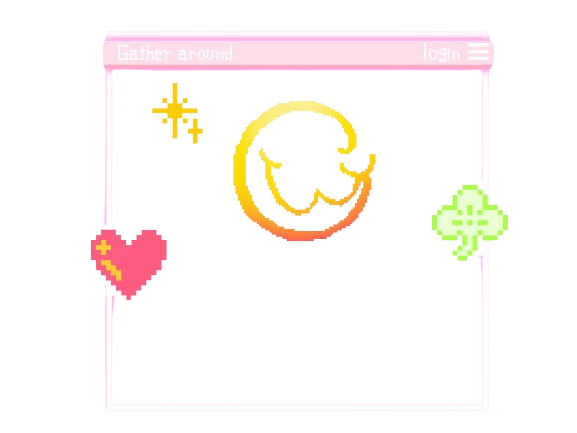
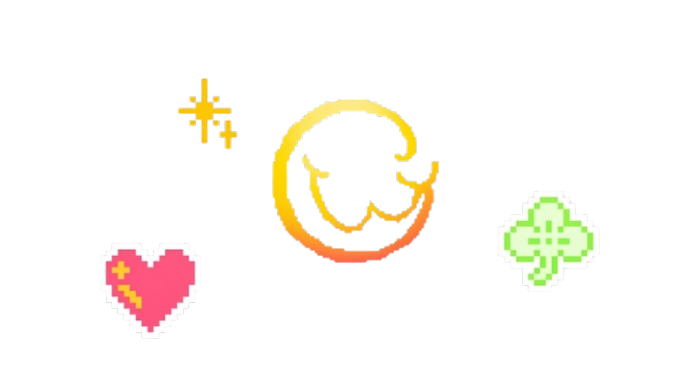
최종수정완료

diff --git a/css.css b/css.css
@@ -1,6 +1,5 @@
-/* ==========================================================================
-   0. 갈무리 웹폰트 패키지 가져오기 & 전역 픽셀 렌더링 설정
-   ========================================================================== */
+/*0. 갈무리 웹폰트 패키지 가져오기 & 전역 픽셀 렌더링 설정
+========================================================================== */
 @import url("https://cdn.jsdelivr.net/npm/galmuri@latest/dist/galmuri.css");
 
 * {
@@ -25,8 +24,8 @@ textarea {
 }
 
 /* ==========================================================================
-   1. 공통 기본 스타일 & 배경 고정 + 스크롤바 숨기기
-   ========================================================================== */
+   1. 공통 기본 스타일 & 배경 고정 + 스크롤바 숨기기
+   ========================================================================== */
 body {
   margin: 0;
   padding: 0;
@@ -60,8 +59,8 @@ body::before {
 }
 
 /* ==========================================================================
-   2. 상단 메뉴바 (GW.html과 서브페이지 유연한 동시 대응 정렬)
-   ========================================================================== */
+   2. 상단 메뉴바 (GW.html과 서브페이지 유연한 동시 대응 정렬)
+   ========================================================================== */
 .navbar {
   width: 100%;
   background: linear-gradient(90deg, #ffe5ec 0%, #ffc2d1 100%);
@@ -145,12 +144,12 @@ body::before {
 }
 
 /* ==========================================================================
-   3. 메인 콘텐츠 및 서브페이지 레이아웃 (가려짐 현상 수정)
-   ========================================================================== */
+   3. 메인 콘텐츠 및 서브페이지 레이아웃 (가려짐 현상 수정)
+   ========================================================================== */
 .main-content {
   flex: 1;
   margin-top: 110px; /* 🚀 헤더(85px) 하단 여백을 주어 타이틀 가려짐 문제 영구 해결 */
-  margin-bottom: 120px;
+  margin-bottom: 85px;
   display: flex;
   flex-direction: column;
   align-items: center;
@@ -241,13 +240,15 @@ body::before {
 
 .footer {
   width: 100%;
-  height: 120px;
+  height: 85px; /* 헤더와 동일 */
   background: linear-gradient(135deg, #fff0f3 0%, #ffccd5 100%);
   box-shadow: 0 -5px 0px rgba(255, 182, 193, 0.4);
+
   padding: 0 30px;
   display: flex;
   align-items: center;
   justify-content: flex-start;
+
   box-sizing: border-box;
   position: fixed;
   bottom: 0;
@@ -270,29 +271,34 @@ body::before {
 
 .egg-link {
   position: absolute;
-  border-radius: 50%;
   cursor: pointer;
+  border-radius: 50%;
+  z-index: 10;
 }
 
+/* ⭐ 별 → 가족.html */
 .link-star {
-  top: 21%;
-  left: 23%;
-  width: 16%;
+  top: 16%;
+  left: 24%;
+  width: 13%;
   height: 22%;
 }
+
+/* ❤️ 하트 → 연인.html */
 .link-heart {
   top: 51%;
-  left: 10%;
+  left: 5%;
   width: 20%;
-  height: 24%;
-}
-.link-clover {
-  top: 43%;
-  left: 72%;
-  width: 18%;
-  height: 24%;
+  height: 31%;
 }
 
+/* 🍀 클로버 → 친구.html */
+.link-clover {
+  top: 42%;
+  left: 70%;
+  width: 20%;
+  height: 30%;
+}
 .footer-info {
   font-size: 28px;
   color: #4a3b32;
@@ -300,19 +306,32 @@ body::before {
 }
 
 /* ==========================================================================
-   4. [가족/연인/친구.html] 서브페이지 전용 레이아웃 
-   ========================================================================== */
+   4. [가족/연인/친구.html] 서브페이지 전용 레이아웃 
+   ========================================================================== */
+/* [가족/연인/친구.html] 서브페이지 전용 레이아웃 수정 */
+/* 서브페이지 본문 전체 컨테이너 수정 */
 .page-container {
   display: flex;
   flex-direction: column;
   align-items: center;
   width: 100%;
-  height: 100vh;
-  padding: 130px 40px 40px 40px;
+  min-height: 100vh;
+  /* 🚀 중요: 130px(헤더) + 120px(푸터) 정도로 여백을 충분히 줍니다 */
+  padding: 130px 40px 150px 40px;
   box-sizing: border-box;
   overflow-y: auto;
 }
 
+/* 귀염뽀짝 아이콘과 푸터 사이의 간격 조정 */
+.cute-bottom-image {
+  position: relative;
+  width: 280px !important;
+  height: 110px !important;
+  margin: 50px auto 20px auto; /* 마지막 아이콘 아래 여백을 살짝 줍니다 */
+  display: block;
+  flex-shrink: 0;
+  z-index: 100;
+}
 .page-container .main-content {
   flex: none;
   width: 90% !important;
@@ -429,23 +448,27 @@ body::before {
 }
 
 /* ==========================================================================
-   5. 귀염뽀짝.png 아이콘 스타일 (그리드 레이아웃)
+   5. 귀염뽀짝.png 아이콘 스타일 (수정본)
    ========================================================================== */
 .cute-bottom-image {
   position: relative;
   width: 280px !important;
   height: 110px !important;
-  margin: 50px auto 180px auto;
+  /* 1. 마진을 조정하여 푸터 영역으로 아이콘이 충분히 들어오게 함 */
+  margin: 50px auto 0 auto;
   display: block;
   flex-shrink: 0;
-  z-index: 999999 !important;
+
+  /* 2. 푸터(z-index: 1000)보다 낮게 설정하여 푸터 밑으로 깔리게 함 */
+  z-index: 100;
 }
 
 .cute-bottom-image img {
   width: 100%;
   height: auto;
   display: block;
-  pointer-events: none;
+  /* 3. 푸터 뒤에 있는 아이콘이 클릭되지 않도록 설정 */
+  pointer-events: auto;
   image-rendering: pixelated;
 }
 
@@ -456,11 +479,11 @@ body::before {
   width: 25% !important;
   display: block;
   cursor: pointer;
-  z-index: 9999999 !important;
+  /* 4. 푸터에 가려진 부분은 클릭이 안 되도록 z-index를 낮게 유지 */
+  z-index: 10;
   background: rgba(0, 0, 0, 0);
   -webkit-tap-highlight-color: transparent;
 }
-
 .btn-1 {
   left: 0%;
 }
@@ -472,4 +495,15 @@ body::before {
 }
 .btn-4 {
   left: 75%;
+}
+.cute-bottom-image {
+  transition:
+    transform 0.3s ease,
+    filter 0.3s ease;
+}
+
+/* 마우스를 올리면 이미지가 살짝 커지고 밝아짐 */
+.cute-bottom-image:hover {
+  transform: translateY(-5px);
+  filter: brightness(1.1);
 }

diff --git a/연인.html b/연인.html
@@ -34,21 +34,18 @@
               href="https://maison-de-carrot.tistory.com/173"
               target="_blank"
               class="pink-card"
+              ><span>소개팅 버전</span></a
             >
-              <span>소개팅 버전</span>
-            </a>
             <a
               href="https://www.instagram.com/p/DOdBBcMAUbu/?img_index=3"
               class="pink-card"
+              ><span>부부 버전</span></a
             >
-              <span>부부 버전</span>
-            </a>
             <a
               href="https://blog.naver.com/youjin133/223767188132"
               class="pink-card"
+              ><span>커플 버전</span></a
             >
-              <span>커플 버전</span>
-            </a>
             <div class="more-arrow">➔</div>
           </div>
         </section>
@@ -91,16 +88,16 @@
           </div>
         </section>
       </main>
-<div class="bg-brand-section sub-brand-section">
-  <img src="gather.png" alt="Gather 로고" class="bg-brand-logo" />
-  <p class="bg-brand-text">
-    당신이 아이스브레이킹을 하고싶은 상대는 어떤 상대인가요? 상황에 적절한 밸런스게임과 
-    각종 신박한 테스트, 그리고 관련 게임을 통해 이야기꽃을 피워보세요! 과연 당신의 선택과 테스트의 결과는?
-  </p>
-</div>
 
-<div class="cute-bottom-image">
-  ...
+      <div class="bg-brand-section sub-brand-section">
+        <img src="gather.png" alt="Gather 로고" class="bg-brand-logo" />
+        <p class="bg-brand-text">
+          당신이 아이스브레이킹을 하고싶은 상대는 어떤 상대인가요? 상황에 적절한
+          밸런스게임과 각종 신박한 테스트, 그리고 관련 게임을 통해 이야기꽃을
+          피워보세요! 과연 당신의 선택과 테스트의 결과는?
+        </p>
+      </div>
+
       <div class="cute-bottom-image">
         <img src="귀염뽀짝.png" alt="귀염뽀짝" />
         <a href="가족.html" class="cute-btn btn-1" title="가족"></a>
@@ -109,5 +106,14 @@
         <a href="GW.html" class="cute-btn btn-4" title="홈"></a>
       </div>
     </div>
+    <footer class="footer">
+      <div class="easter-egg-container">
+        <img src="이스터에그.png" alt="이스터에그" class="easter-egg-img" />
+        <a href="친구.html" class="egg-link link-star" title="친구"></a>
+        <a href="가족.html" class="egg-link link-clover" title="가족"></a>
+        <a href="연인.html" class="egg-link link-heart" title="연인"></a>
+      </div>
+      <div class="footer-info">| 만든이 | 박예지 | 정소현 | 허은비 |</div>
+    </footer>
   </body>
 </html>

diff --git a/가족.html b/가족.html
@@ -78,14 +78,23 @@
 </div>
 
 <div class="cute-bottom-image">
-  ...
+  
       <div class="cute-bottom-image">
         <img src="귀염뽀짝.png" alt="귀염뽀짝" />
-        <a href="가족.html" class="cute-btn btn-1" title="가족"></a>
+        <a href="GW.html" class="cute-btn btn-1" title="GW"></a>
         <a href="친구.html" class="cute-btn btn-2" title="친구"></a>
         <a href="연인.html" class="cute-btn btn-3" title="연인"></a>
-        <a href="GW.html" class="cute-btn btn-4" title="홈"></a>
+        <a href="가족.html" class="cute-btn btn-4" title="가족"></a>
       </div>
     </div>
+    <footer class="footer">
+  <div class="easter-egg-container">
+    <img src="이스터에그.png" alt="이스터에그" class="easter-egg-img" />
+    <a href="친구.html" class="egg-link link-star" title="친구"></a>
+    <a href="가족.html" class="egg-link link-clover" title="가족"></a>
+    <a href="연인.html" class="egg-link link-heart" title="연인"></a>
+  </div>
+  <div class="footer-info">| 만든이 | 박예지 | 정소현 | 허은비 |</div>
+</footer>
   </body>
 </html>

diff --git a/친구.html b/친구.html
@@ -75,14 +75,23 @@
 </div>
 
 <div class="cute-bottom-image">
-  ...
+  
       <div class="cute-bottom-image">
         <img src="귀염뽀짝.png" alt="귀염뽀짝" />
-        <a href="가족.html" class="cute-btn btn-1" title="가족"></a>
+        <a href="GW.html" class="cute-btn btn-1" title="GW"></a>
         <a href="친구.html" class="cute-btn btn-2" title="친구"></a>
         <a href="연인.html" class="cute-btn btn-3" title="연인"></a>
-        <a href="GW.html" class="cute-btn btn-4" title="홈"></a>
+        <a href="가족.html" class="cute-btn btn-4" title="가족"></a>
       </div>
     </div>
+    <footer class="footer">
+  <div class="easter-egg-container">
+    <img src="이스터에그.png" alt="이스터에그" class="easter-egg-img" />
+    <a href="친구.html" class="egg-link link-star" title="친구"></a>
+    <a href="가족.html" class="egg-link link-clover" title="가족"></a>
+    <a href="연인.html" class="egg-link link-heart" title="연인"></a>
+  </div>
+  <div class="footer-info">| 만든이 | 박예지 | 정소현 | 허은비 |</div>
+</footer>
   </body>
 </html>